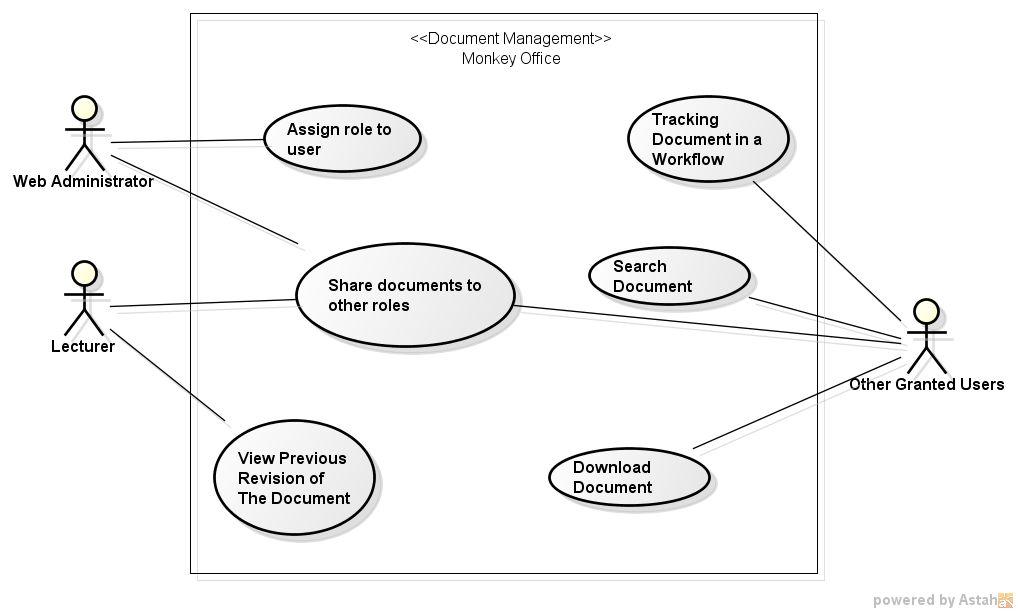
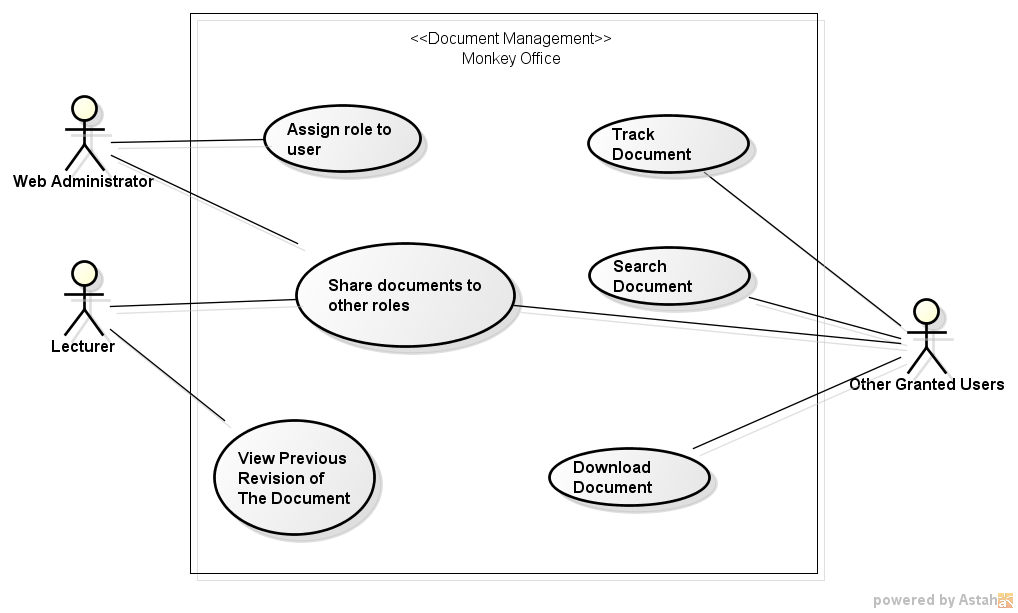
[usecase] track document

diff --git a/requirement.tex b/requirement.tex
@@ -442,6 +442,32 @@ From table \ref{tbl-usecase:reject-document} to table \ref{tbl-usecase:attach-co
 
 \begin{table}
 	\centering
+	\caption{Use case: Track document}
+	\begin{tabular}{|l|L{9cm}|}
+		\hline
+		\textbf{Use Case Name} & Track document \\
+		\hline
+		
+		\textbf{Description} & Track a document executing in a workflow \\
+		\textbf{Primary Actor} & Other granted users \\
+		\textbf{Pre-condition} & 
+		\begin{enumerate}
+			\item \alreadylogin
+			\item User executes a workflow that is going to produce at least one document.
+		\end{enumerate} \\
+		\textbf{Post-condition} & The system display an executing task defined by the workflow \\
+		\textbf{Trigger} & The document is forward to the next task in the workflow \\
+		\textbf{Basic flow} & 
+		\begin{enumerate}
+			\item On \enquote{My Documents} tab at \enquote{status} column, click on the status (created, in progress, or done).
+			\item The system displays the entire workflow and highlights the executing task in which will produce the document.
+		\end{enumerate} \\
+		\hline
+	\end{tabular}
+\end{table}
+
+\begin{table}
+	\centering
 	\caption{Use case: Search Document}
 	\begin{tabular}{|l|L{9cm}|}
 		\hline
